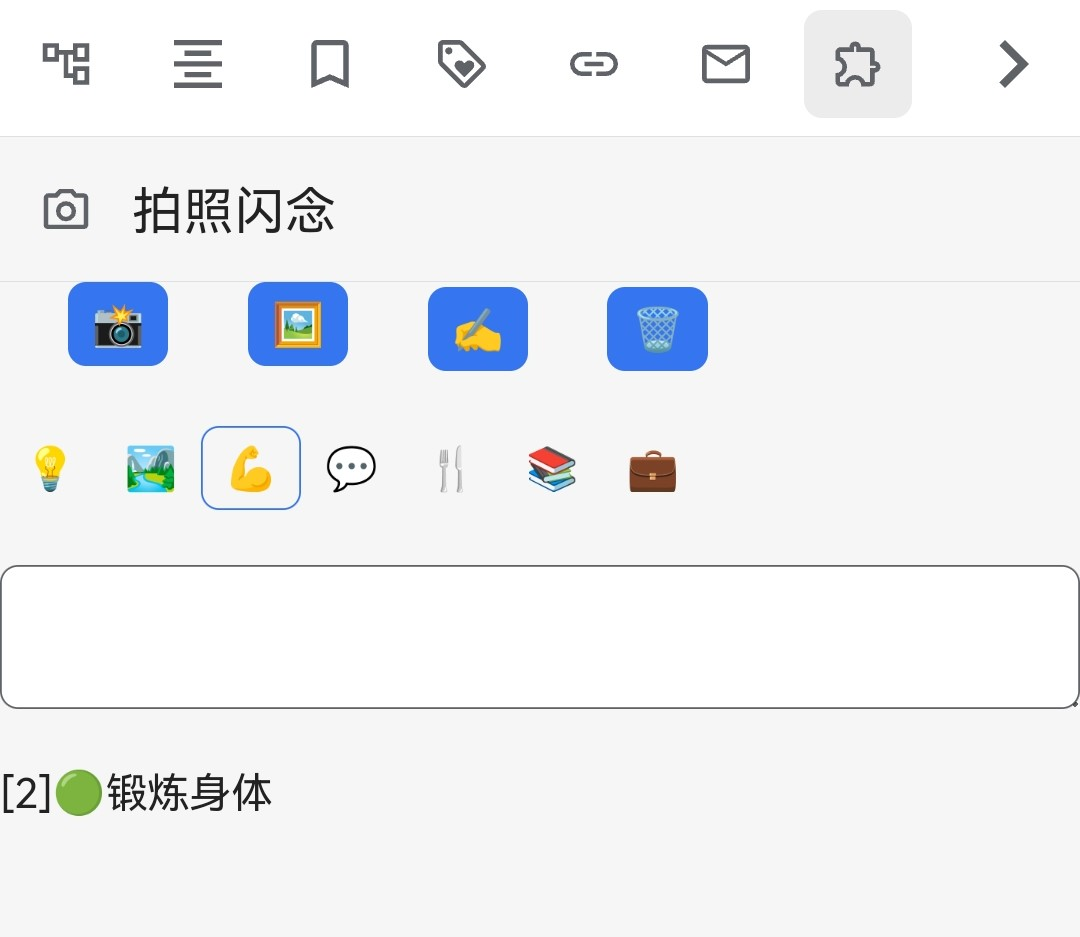
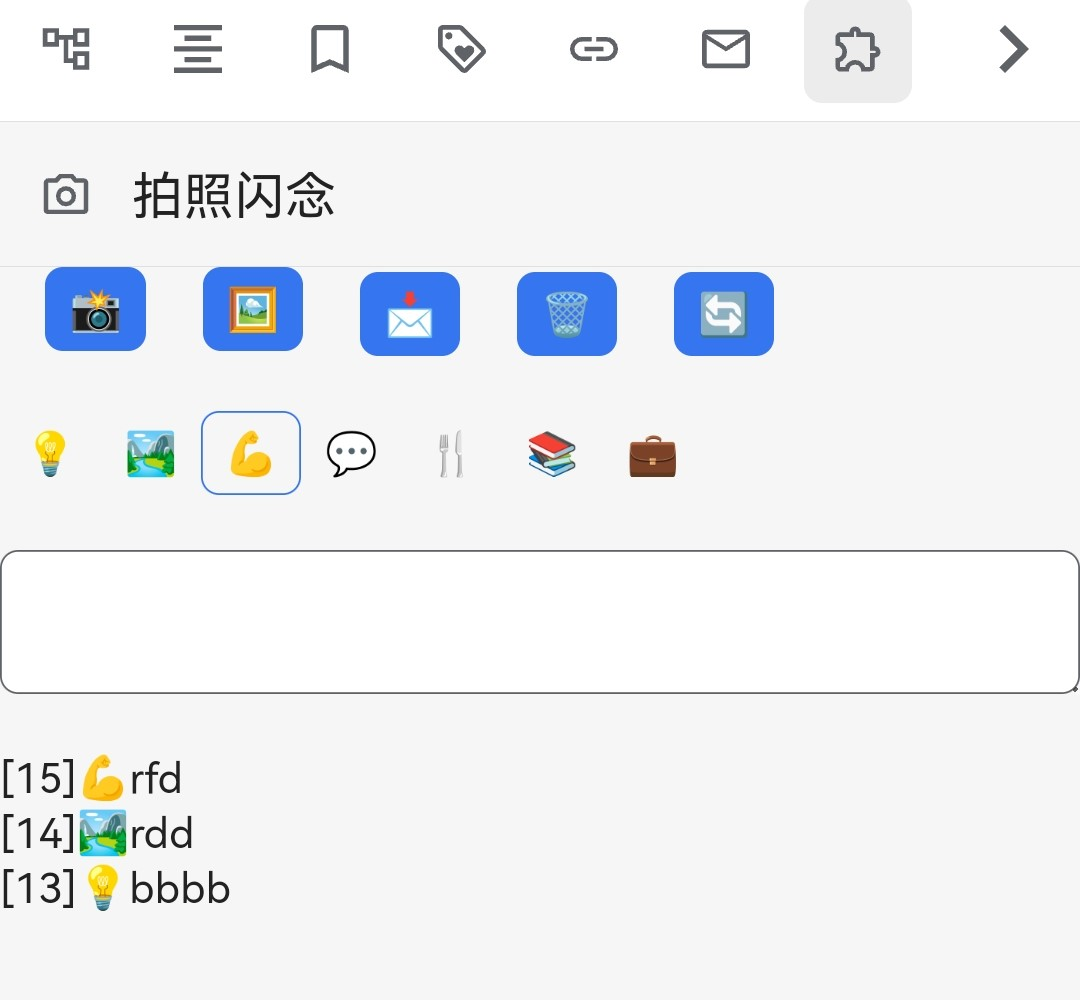
auto

diff --git a/README_zh_CN.md b/README_zh_CN.md
@@ -35,23 +35,27 @@
 
 ## 拍照闪念
 
-收集闪念到 daily note，可插入图片，支持`相机`与`图库`。
+收集闪念到 daily note，可插入图片，支持`相机`与`图库`。  
 
-<img src="assets/idea1.jpg" alt="drawing" width="300"/>
+📸相机拍照  
+🖼从图库从选择  
+📩插入到dailynote  
+🗑清理列表，清理输入框  
+🔄同步数据到云端  
 
-<img src="assets/idea2.jpg" alt="drawing" width="300"/>
+<img src="assets/idea1.jpg" alt="drawing" width="300"/>  
+
+<img src="assets/idea2.jpg" alt="drawing" width="300"/>  
 
 记录的信息，可能的类别：
 
-```
-闪念: 💡
-场所: 🏞
-健康: 💪
-社交: 💬
-生活: 🍴
-学习: 📚
-工作: 💼
-```
+闪念: 💡  
+场所: 🏞  
+健康: 💪  
+社交: 💬  
+生活: 🍴  
+学习: 📚  
+工作: 💼  
 
 ## 杂项
 
